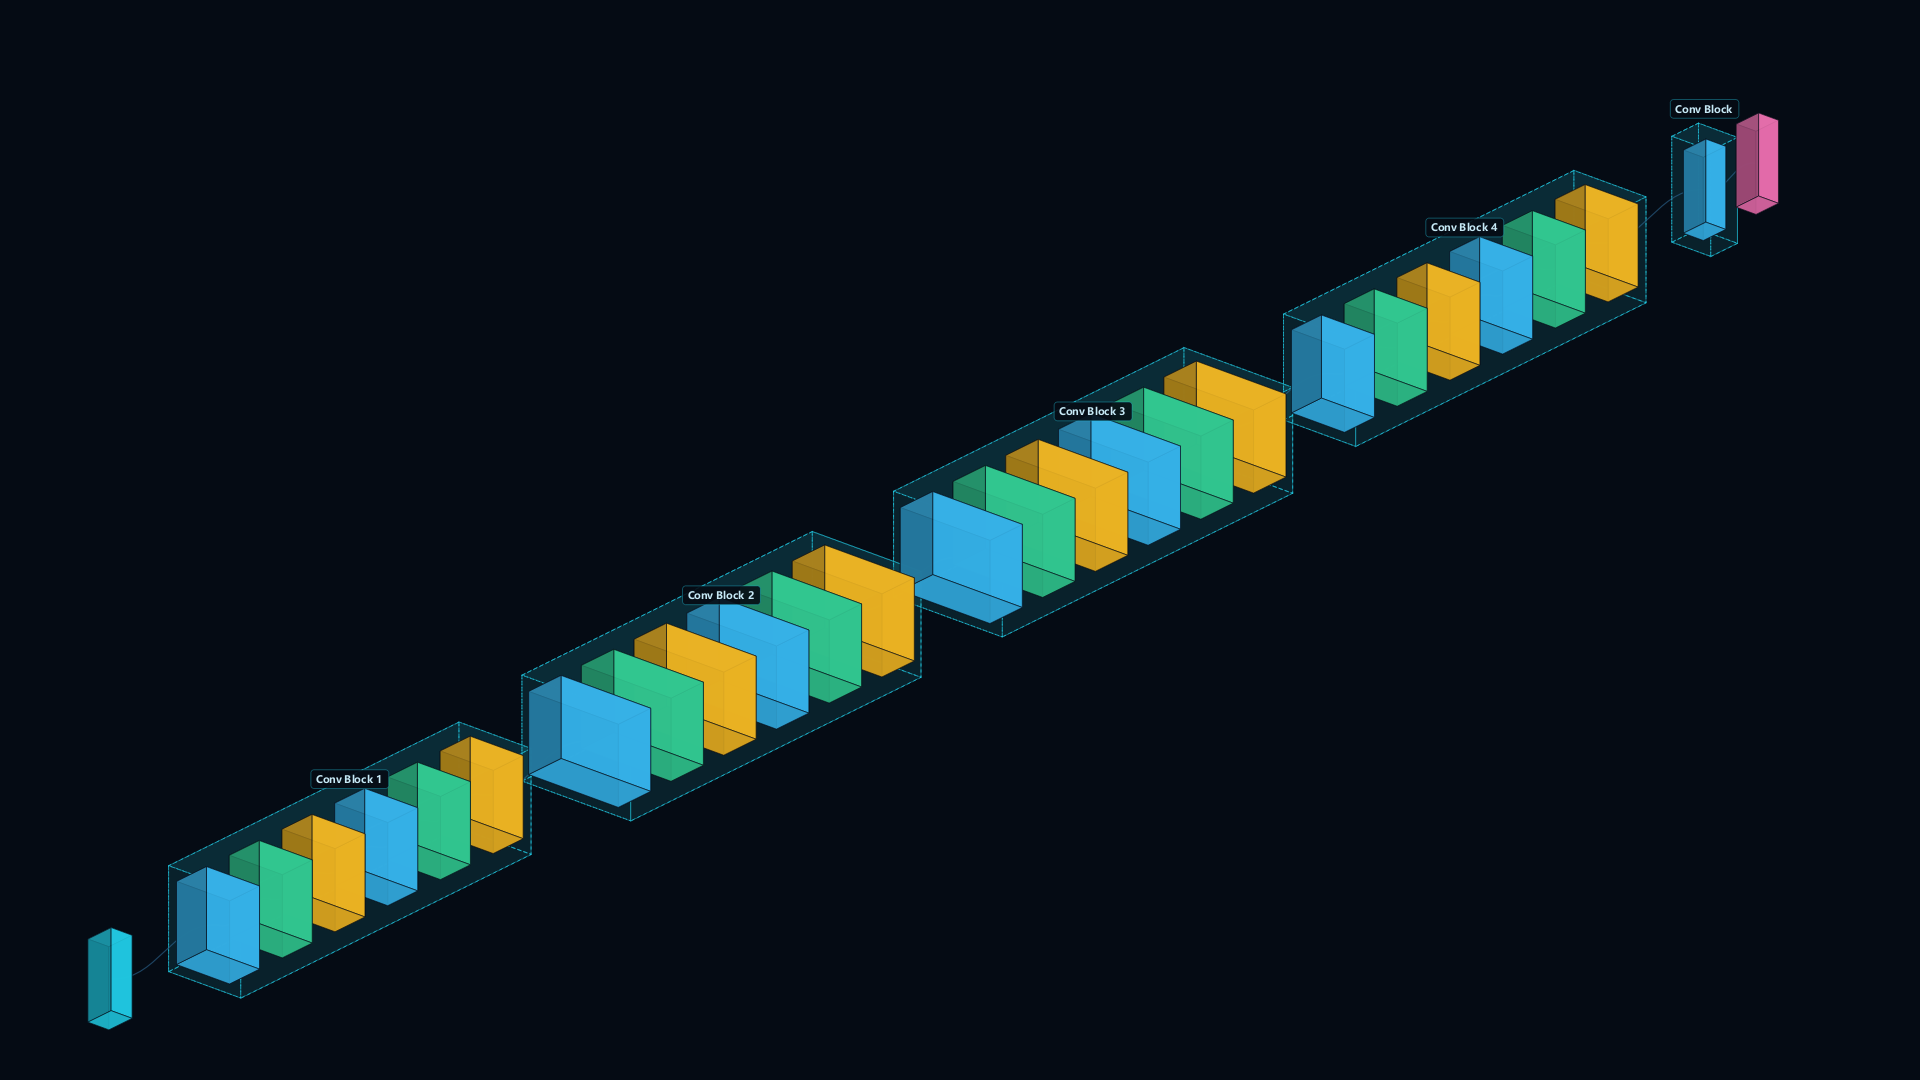
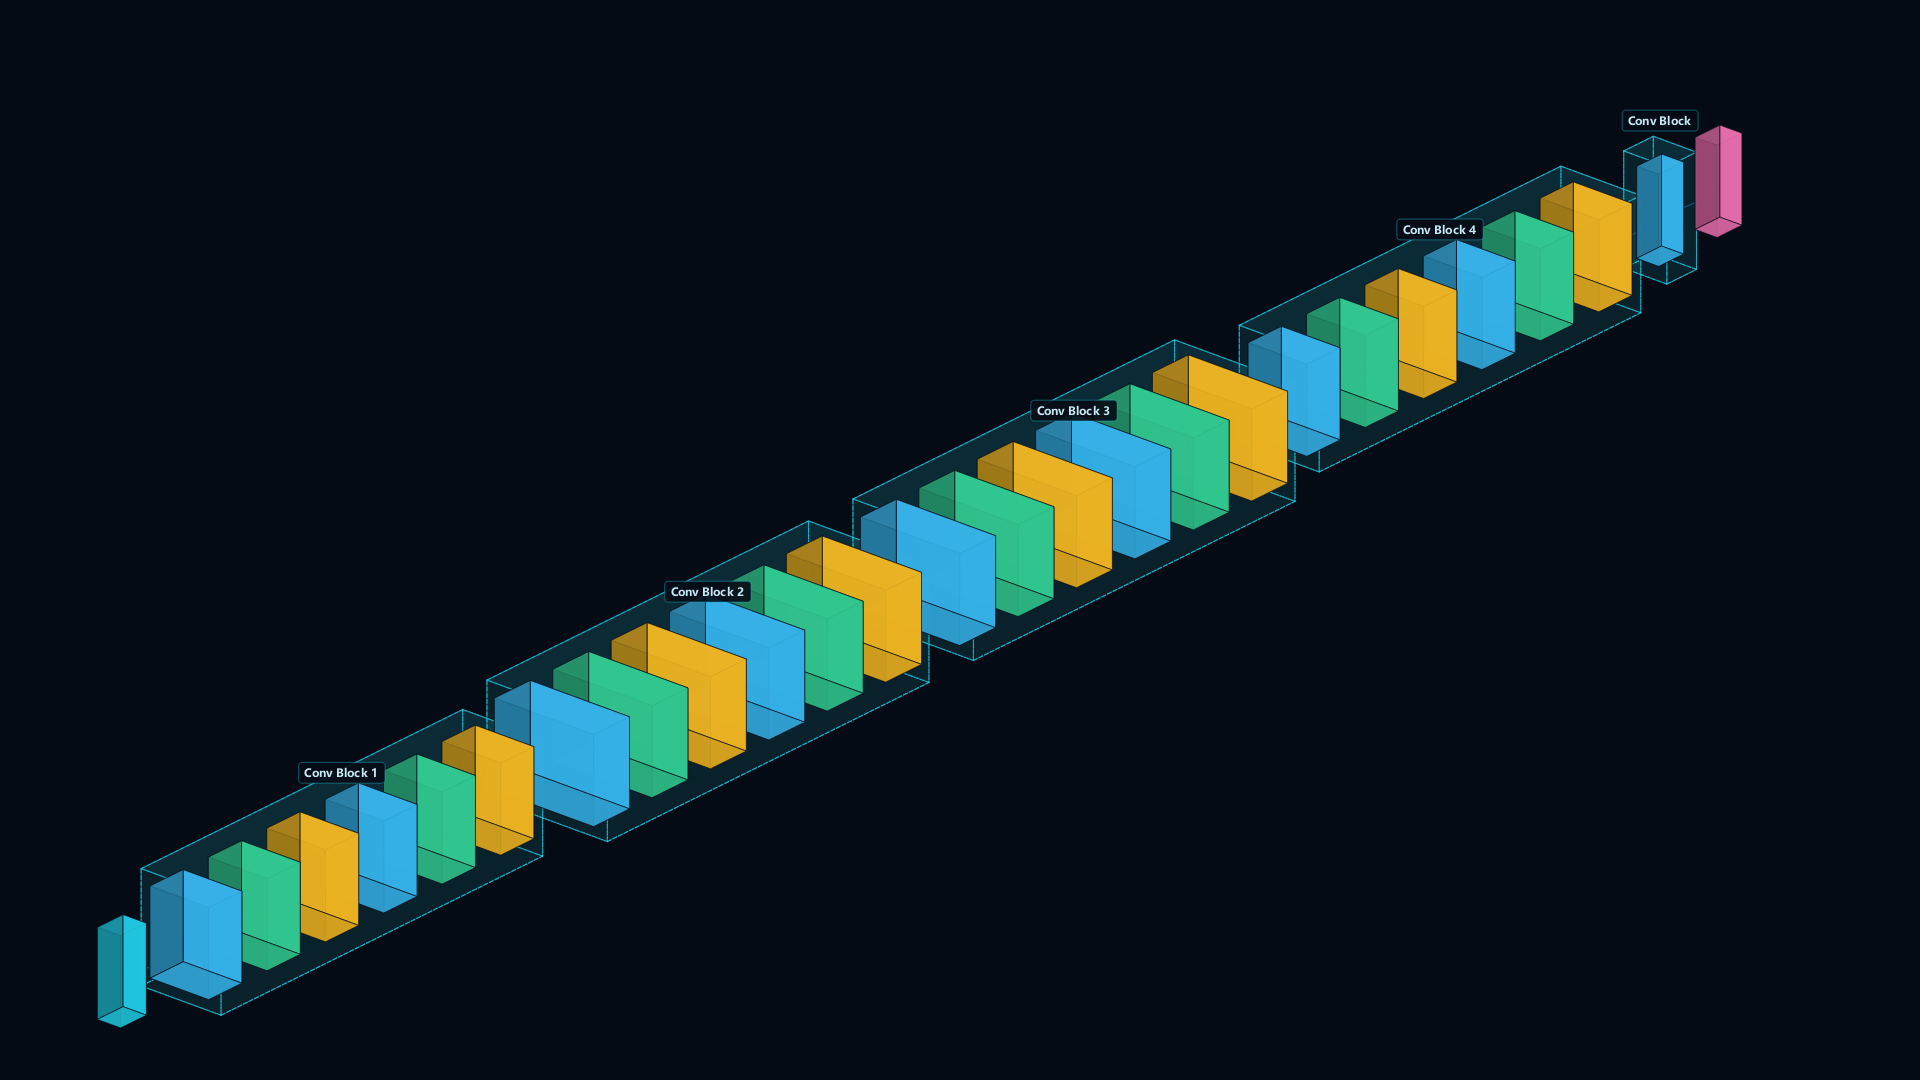
Polish 3D density and renderer performance

Changed region(s): [[0.0312, 0.0917, 0.9375, 0.9472]]

diff --git a/web/js/scene.js b/web/js/scene.js
@@ -67,7 +67,7 @@ export class SceneManager {
       powerPreference: "high-performance",
       preserveDrawingBuffer: false,
     });
-    this.renderer.setPixelRatio(Math.min(window.devicePixelRatio || 1, 2));
+    this.renderer.setPixelRatio(Math.min(window.devicePixelRatio || 1, 1.5));
     this.renderer.setClearColor(0x000000, 0);
     this.renderer.outputColorSpace = THREE.SRGBColorSpace;
     this.renderer.toneMapping = THREE.ACESFilmicToneMapping;
@@ -308,7 +308,7 @@ export class SceneManager {
     shadowCam.near = 0.5;
     shadowCam.far = 280;
     shadowCam.updateProjectionMatrix();
-    const mapSize = layout.nodeCount <= 180 ? 2048 : 1024;
+    const mapSize = layout.nodeCount <= 220 ? 1024 : 768;
     if (this.keyLight.shadow.mapSize.x !== mapSize) {
       this.keyLight.shadow.mapSize.set(mapSize, mapSize);
       if (this.keyLight.shadow.map) {
@@ -541,7 +541,7 @@ export class SceneManager {
     if (!width || !height) return;
     this.camera.aspect = width / height;
     this.camera.updateProjectionMatrix();
-    this.renderer.setPixelRatio(Math.min(window.devicePixelRatio || 1, 2));
+    this.renderer.setPixelRatio(Math.min(window.devicePixelRatio || 1, 1.5));
     this.renderer.setSize(width, height, false);
     this.renderer.domElement.style.width = "100%";
     this.renderer.domElement.style.height = "100%";

diff --git a/web/js/edges.js b/web/js/edges.js
@@ -126,8 +126,8 @@ export function buildEdgeContent(layout, graph, options = {}) {
       materials.push(lineMaterial);
     } else if (isSpecial) {
       // Special connections deserve to read as real arcs, not 1px hairlines.
-      opacity = 0.96;
-      const radius = kind === "skip" ? 0.115 : 0.065;
+      opacity = 0.86;
+      const radius = kind === "skip" ? 0.085 : 0.052;
       const tubeGeometry = new THREE.TubeGeometry(curve, Math.max(segments, 36), radius, 7, false);
       const tubeMaterial = new THREE.MeshBasicMaterial({
         color,
@@ -169,7 +169,7 @@ export function buildEdgeContent(layout, graph, options = {}) {
 
     let glow = null;
     if (isSpecial && !big) {
-      const glowGeometry = new THREE.TubeGeometry(curve, Math.max(segments, 32), kind === "skip" ? 0.24 : 0.15, 7, false);
+      const glowGeometry = new THREE.TubeGeometry(curve, Math.max(segments, 32), kind === "skip" ? 0.17 : 0.11, 7, false);
       const glowMaterial = new THREE.MeshBasicMaterial({
         color,
         transparent: true,

diff --git a/web/js/layout.js b/web/js/layout.js
@@ -335,7 +335,7 @@ export function computeLayout(graph) {
     let gap = 1.0;
     if (prev) {
       const groupChanged = prev.groupId !== item.groupId;
-      gap = groupChanged ? 4.0 : 0.76;
+      gap = groupChanged ? 2.7 : 0.76;
       if (item.hasKernels) gap = Math.max(gap, 1.58);
       if (prev.hasKernels) gap = Math.max(gap, 1.48);
       if (item.isBoundary || prev.isBoundary) gap = Math.max(gap, 1.65);

diff --git a/netprism/gui/scene3d.py b/netprism/gui/scene3d.py
@@ -42,7 +42,7 @@ from .theme import (
 SCALE = 42.0
 DEFAULT_YAW = -1.0
 DEFAULT_PITCH = 0.48
-GROUP_GAP = 4.2
+GROUP_GAP = 2.6
 #: Candidate presentation angles; export picks the one closest to 16:9.
 EXPORT_ANGLES = (
     (-1.00, 0.48),
@@ -265,6 +265,8 @@ class Graph3DView(QGraphicsView):
         self.setScene(QGraphicsScene(self))
         self.setRenderHints(QPainter.RenderHint.Antialiasing | QPainter.RenderHint.TextAntialiasing)
         self.setViewportUpdateMode(QGraphicsView.ViewportUpdateMode.BoundingRectViewportUpdate)
+        self.setOptimizationFlag(QGraphicsView.OptimizationFlag.DontSavePainterState, True)
+        self.setCacheMode(QGraphicsView.CacheModeFlag.CacheBackground)
         self.setTransformationAnchor(QGraphicsView.ViewportAnchor.AnchorUnderMouse)
         self.setResizeAnchor(QGraphicsView.ViewportAnchor.AnchorViewCenter)
         self.setHorizontalScrollBarPolicy(Qt.ScrollBarPolicy.ScrollBarAlwaysOff)
